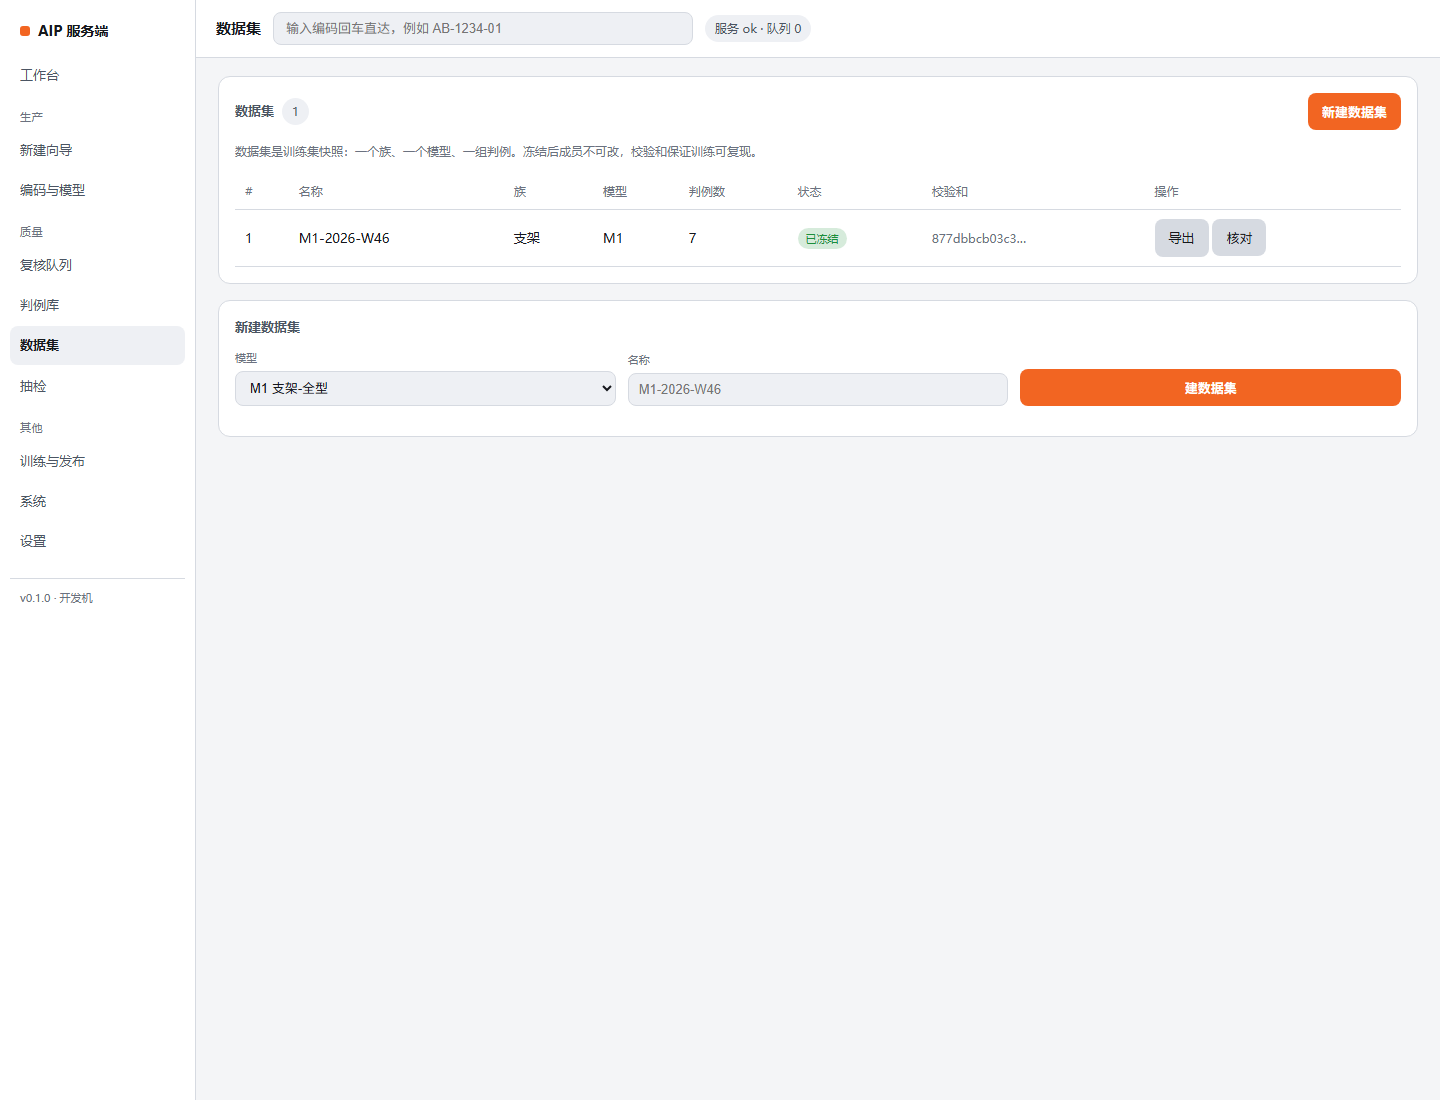
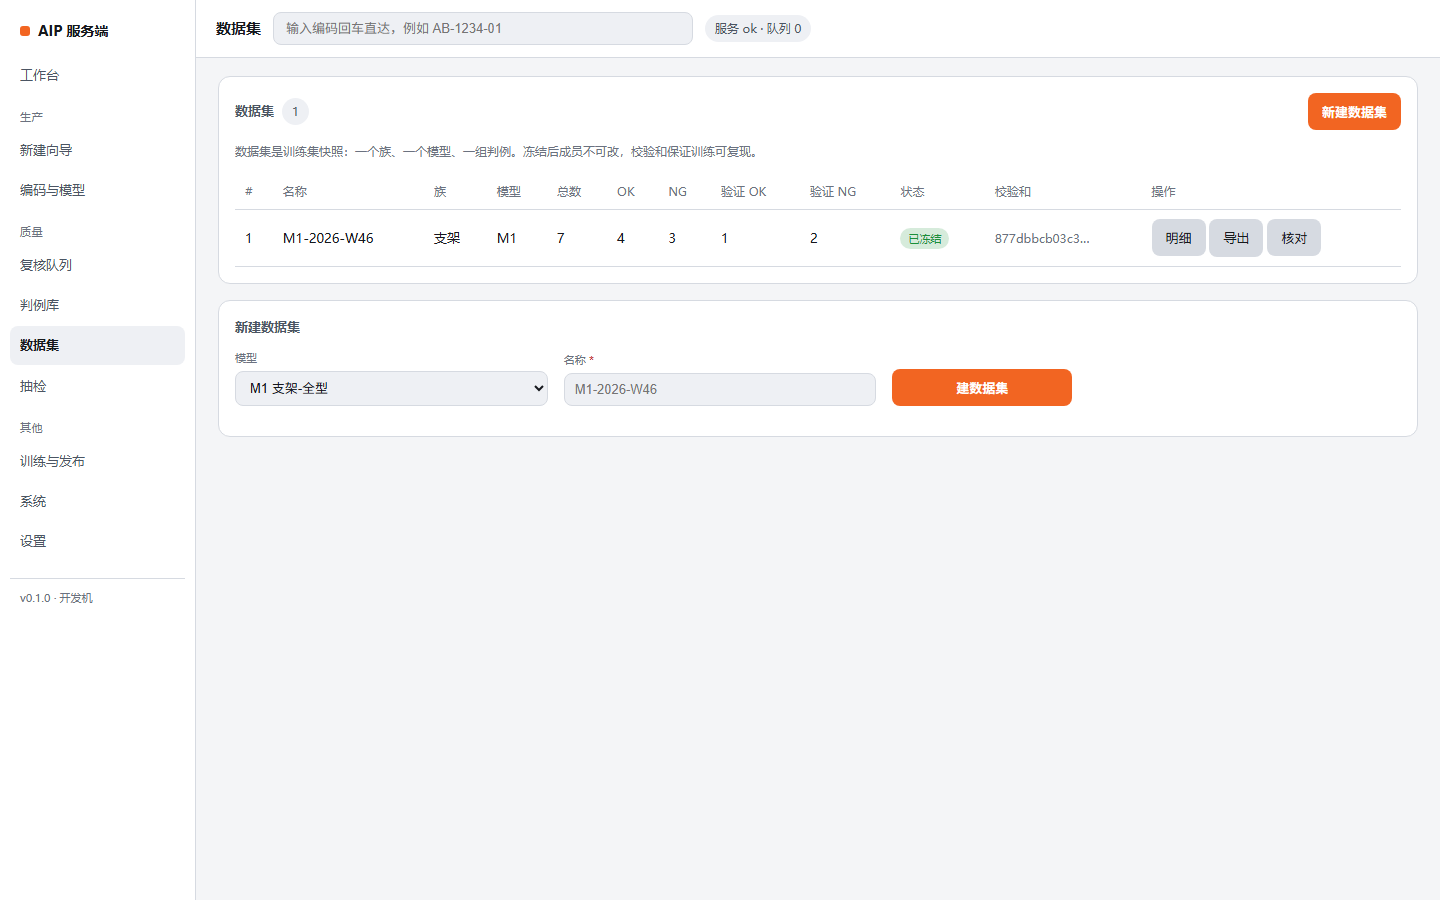
feat: 数据集分类统计（OK/NG）与冻结时训练/验证划分；明细弹窗

diff --git a/aip/web/admin.html b/aip/web/admin.html
@@ -198,6 +198,16 @@
 </div>
 <div id="toasts" aria-live="polite"></div>
 
+<dialog id="datasetDlg" style="width:min(860px,94vw)">
+  <h2 id="datasetTitle" style="margin-bottom:8px">数据集</h2>
+  <p id="datasetSummary" class="muted" style="margin:0 0 12px"></p>
+  <table><caption class="sr-only">数据集成员</caption>
+    <thead><tr><th scope="col">判例</th><th scope="col">编码</th><th scope="col">件号</th>
+      <th scope="col">结论</th><th scope="col">划分</th><th scope="col">理由</th></tr></thead>
+    <tbody id="datasetBody"></tbody></table>
+  <div class="row" style="margin-top:14px"><button class="ghost" onclick="this.closest('dialog').close()">关闭</button></div>
+</dialog>
+
 <dialog id="auditDlg">
   <h2 id="auditTitle" style="margin-bottom:12px">数据集核对</h2>
   <table><caption class="sr-only">成员变化</caption>
@@ -1472,13 +1482,20 @@ async function renderDatasets() {
       ${datasets.length === 0 ? `<div class="empty">还没有数据集。<b>怎么做</b>：在判例库勾选判例 → 加入数据集 → 冻结 → 训练时选择它。</div>` : `
       <table><caption class="sr-only">数据集列表</caption>
         <thead><tr><th scope="col">#</th><th scope="col">名称</th><th scope="col">族</th><th scope="col">模型</th>
-          <th scope="col">判例数</th><th scope="col">状态</th><th scope="col">校验和</th><th scope="col">操作</th></tr></thead>
+          <th scope="col">总数</th><th scope="col">OK</th><th scope="col">NG</th>
+          <th scope="col">验证 OK</th><th scope="col">验证 NG</th>
+          <th scope="col">状态</th><th scope="col">校验和</th><th scope="col">操作</th></tr></thead>
         <tbody>${datasets.map(d => `<tr>
           <td>${d.id}</td><td>${esc(d.name)}</td><td>${esc(d.family || "-")}</td><td>${esc(d.model_code)}</td>
           <td>${d.count}</td>
+          <td>${d.ok_count}</td>
+          <td>${d.ng_count}</td>
+          <td>${d.val_ok}</td>
+          <td>${d.val_ng}</td>
           <td>${d.status === "frozen" ? '<span class="tag ok">已冻结</span>' : '<span class="tag candidate">草稿</span>'}</td>
           <td class="muted">${d.checksum ? d.checksum.slice(0, 12) + "…" : "-"}</td>
           <td>
+            <button class="ghost" data-detail="${d.id}">明细</button>
             <a class="ghost" href="/api/datasets/${d.id}/export.csv">导出</a>
             ${d.status === "frozen" ? `<button class="ghost" data-audit="${d.id}">核对</button>` : ""}
             ${d.status === "draft" ? `<button class="ghost" data-freeze="${d.id}">冻结</button>` : ""}
@@ -1505,6 +1522,28 @@ async function renderDatasets() {
       renderDatasets();
     } catch (e) { toast(e.message, true); }
   };
+  document.querySelectorAll("[data-detail]").forEach(btn => {
+    btn.onclick = async () => {
+      try {
+        const d = await api(`/api/datasets/${btn.dataset.detail}`);
+        const s = d.summary || {};
+        $("datasetTitle").textContent = `数据集 #${d.id} ${d.name}`;
+        $("datasetSummary").textContent =
+          `共 ${s.total} 条 · OK ${s.ok} / NG ${s.ng} · 训练 OK ${s.train_ok} NG ${s.train_ng}` +
+          ` · 验证 OK ${s.val_ok} NG ${s.val_ng}（状态：${d.status === "frozen" ? "已冻结" : "草稿"}）`;
+        $("datasetBody").innerHTML = d.items.length
+          ? d.items.map(it => `<tr>
+              <td>${it.case_id}</td><td>${esc(it.code)}</td><td>${esc(it.part_no || "-")}</td>
+              <td>${tag(it.verdict)}</td>
+              <td>${it.split === "frozen_val" ? '<span class="tag candidate">验证</span>' : "训练"}</td>
+              <td>${esc(it.reason || "-")}</td>
+            </tr>`).join("")
+          : '<tr><td colspan="6" class="empty">数据集为空</td></tr>';
+        $("datasetDlg").showModal();
+      } catch (e) { toast(e.message, true); }
+    };
+  });
+
   document.querySelectorAll("[data-audit]").forEach(btn => {
     btn.onclick = async () => {
       try {

diff --git a/aip/src/aip/datasets.py b/aip/src/aip/datasets.py
@@ -106,6 +106,77 @@ def add_items(
     return {"added": added, "skipped": skipped}
 
 
+VAL_RATIO = {"ok": 0.2, "ng": 0.5}
+
+
+def _split_for(case_id: int, verdict: str) -> str:
+    """确定性划分：按 case_id 稳定散列，同一条判例永远落在同一侧。"""
+    ratio = VAL_RATIO.get(verdict, 0.2)
+    bucket = (case_id * 2654435761) % 100
+    return "frozen_val" if bucket < int(ratio * 100) else "train"
+
+
+def assign_splits(conn: sqlite3.Connection, dataset_id: int) -> dict:
+    """按类别比例划分 train / frozen_val；每类至少保留一条训练样本。"""
+    rows = conn.execute(
+        "SELECT i.case_id, i.verdict_at_freeze, c.verdict"
+        " FROM dataset_item i LEFT JOIN case_item c ON c.id = i.case_id"
+        " WHERE i.dataset_id = ? ORDER BY i.case_id",
+        (dataset_id,),
+    ).fetchall()
+
+    by_class: dict[str, list[int]] = {"ok": [], "ng": []}
+    for r in rows:
+        verdict = r["verdict_at_freeze"] or r["verdict"]
+        if verdict in by_class:
+            by_class[verdict].append(int(r["case_id"]))
+
+    split_of: dict[int, str] = {}
+    for verdict, ids in by_class.items():
+        ratio = VAL_RATIO[verdict]
+        n = len(ids)
+        val_n = 0 if n < 2 else max(1, round(n * ratio))
+        val_n = min(val_n, n - 1)  # 至少留一条训练
+        # 稳定排序：按散列值挑验证样本
+        ranked = sorted(ids, key=lambda cid: (cid * 2654435761) % 1000)
+        for cid in ranked[:val_n]:
+            split_of[cid] = "frozen_val"
+        for cid in ranked[val_n:]:
+            split_of[cid] = "train"
+
+    for cid, split in split_of.items():
+        conn.execute(
+            "UPDATE dataset_item SET split = ? WHERE dataset_id = ? AND case_id = ?",
+            (split, dataset_id, cid),
+        )
+    return {
+        "train": sum(1 for v in split_of.values() if v == "train"),
+        "val": sum(1 for v in split_of.values() if v == "frozen_val"),
+    }
+
+
+def _summary(conn: sqlite3.Connection, dataset_id: int) -> dict:
+    rows = conn.execute(
+        "SELECT c.verdict, i.split, count(*) n"
+        " FROM dataset_item i JOIN case_item c ON c.id = i.case_id"
+        " WHERE i.dataset_id = ? GROUP BY c.verdict, i.split",
+        (dataset_id,),
+    ).fetchall()
+    out = {"total": 0, "ok": 0, "ng": 0,
+           "train_ok": 0, "train_ng": 0, "val_ok": 0, "val_ng": 0}
+    for r in rows:
+        n = int(r["n"])
+        verdict = r["verdict"]
+        out["total"] += n
+        if verdict in ("ok", "ng"):
+            out[verdict] += n
+        if r["split"] == "frozen_val":
+            out["val_" + verdict] += n
+        else:
+            out["train_" + verdict] += n
+    return out
+
+
 def freeze(conn: sqlite3.Connection, dataset_id: int, *, actor: str = "web") -> str:
     ds = conn.execute("SELECT * FROM dataset WHERE id = ?", (dataset_id,)).fetchone()
     if ds is None:
@@ -134,6 +205,7 @@ def freeze(conn: sqlite3.Connection, dataset_id: int, *, actor: str = "web") -> 
         )
         from .dataset_audit import snapshot
 
+        assign_splits(conn, dataset_id)
         snapshot(conn, dataset_id)
         record(conn, actor=actor, action="dataset.freeze", entity="dataset",
                entity_id=dataset_id, payload={"checksum": checksum, "count": len(rows)})
@@ -160,6 +232,7 @@ def get_dataset(conn: sqlite3.Connection, dataset_id: int) -> dict:
     out = dict(ds)
     out["items"] = [dict(r) for r in items]
     out["count"] = len(items)
+    out["summary"] = _summary(conn, dataset_id)
     return out
 
 
@@ -167,7 +240,15 @@ def list_datasets(conn: sqlite3.Connection, limit: int = 100) -> list[dict]:
     rows = conn.execute(
         "SELECT d.id, d.name, d.status, d.checksum, d.frozen_at, d.created_at,"
         " f.name AS family, m.code AS model_code,"
-        " (SELECT count(*) FROM dataset_item i WHERE i.dataset_id = d.id) AS count"
+        " (SELECT count(*) FROM dataset_item i WHERE i.dataset_id = d.id) AS count,"
+        " (SELECT count(*) FROM dataset_item i JOIN case_item c ON c.id = i.case_id"
+        "   WHERE i.dataset_id = d.id AND c.verdict = 'ok') AS ok_count,"
+        " (SELECT count(*) FROM dataset_item i JOIN case_item c ON c.id = i.case_id"
+        "   WHERE i.dataset_id = d.id AND c.verdict = 'ng') AS ng_count,"
+        " (SELECT count(*) FROM dataset_item i JOIN case_item c ON c.id = i.case_id"
+        "   WHERE i.dataset_id = d.id AND i.split = 'frozen_val' AND c.verdict = 'ok') AS val_ok,"
+        " (SELECT count(*) FROM dataset_item i JOIN case_item c ON c.id = i.case_id"
+        "   WHERE i.dataset_id = d.id AND i.split = 'frozen_val' AND c.verdict = 'ng') AS val_ng"
         " FROM dataset d LEFT JOIN family f ON f.id = d.family_id"
         " JOIN model m ON m.id = d.model_id"
         " ORDER BY d.id DESC LIMIT ?",

diff --git a/tests/test_api_dataset_split.py b/tests/test_api_dataset_split.py
@@ -1,0 +1,81 @@
+"""数据集分类统计与训练/验证划分验收。"""
+
+from __future__ import annotations
+
+import pytest
+from fastapi.testclient import TestClient
+from PIL import Image
+
+from aip import store, whitelist
+from aip.api.app import create_app
+
+
+@pytest.fixture()
+def client(tmp_path, monkeypatch):
+    monkeypatch.setenv("AIP_WHITELIST", str(tmp_path / "none.yaml"))
+    whitelist.reset_cache()
+    db = tmp_path / "api.db"
+    conn = store.connect(db)
+    store.migrate(conn)
+    conn.close()
+    return TestClient(create_app(db))
+
+
+def _case(client, tmp_path, name: str, verdict: str, shade: int) -> int:
+    img = tmp_path / name
+    Image.new("RGB", (16, 16), (shade % 250 + 3, shade % 250 + 3, shade % 250 + 3)).save(img)
+    return client.post(
+        "/api/cases",
+        json={"code": "AB-1", "crop_path": str(img), "verdict": verdict,
+              "adjudicator": "z", "part_no": name},
+    ).json()["id"]
+
+
+def _dataset_with(client, tmp_path, ok: int, ng: int) -> tuple[int, int]:
+    client.post("/api/codes", json={"code": "AB-1", "family": "支架类"})
+    model = client.post("/api/models", json={"code": "M1"}).json()
+    client.post("/api/bindings", json={"code": "AB-1", "model_id": model["id"]})
+    ids = [_case(client, tmp_path, f"ok{i}.png", "ok", 10 + i * 7) for i in range(ok)]
+    ids += [_case(client, tmp_path, f"ng{i}.png", "ng", 60 + i * 7) for i in range(ng)]
+    ds = client.post("/api/datasets", json={"model_id": model["id"], "name": "D1"}).json()
+    client.post(f"/api/datasets/{ds['id']}/items", json={"case_ids": ids})
+    return model["id"], ds["id"]
+
+
+def test_summary_counts_ok_ng_and_val(client, tmp_path):
+    _, ds_id = _dataset_with(client, tmp_path, ok=10, ng=6)
+    client.post(f"/api/datasets/{ds_id}/freeze")
+
+    detail = client.get(f"/api/datasets/{ds_id}").json()
+    s = detail["summary"]
+    assert s["total"] == 16
+    assert s["ok"] == 10
+    assert s["ng"] == 6
+    assert s["train_ok"] + s["val_ok"] == 10
+    assert s["train_ng"] + s["val_ng"] == 6
+    # 比例：正常 20% 进验证，缺陷 50%
+    assert s["val_ok"] == 2
+    assert s["val_ng"] == 3
+    # 每类至少留一条训练
+    assert s["train_ok"] >= 1 and s["train_ng"] >= 1
+
+    # 明细里的 split 与统计一致
+    val = [i for i in detail["items"] if i["split"] == "frozen_val"]
+    assert len(val) == s["val_ok"] + s["val_ng"]
+
+
+def test_tiny_class_stays_in_train(client, tmp_path):
+    _, ds_id = _dataset_with(client, tmp_path, ok=1, ng=1)
+    client.post(f"/api/datasets/{ds_id}/freeze")
+    s = client.get(f"/api/datasets/{ds_id}").json()["summary"]
+    assert s["val_ok"] == 0 and s["val_ng"] == 0
+    assert s["train_ok"] == 1 and s["train_ng"] == 1
+
+
+def test_list_exposes_class_counts(client, tmp_path):
+    _, ds_id = _dataset_with(client, tmp_path, ok=5, ng=5)
+    client.post(f"/api/datasets/{ds_id}/freeze")
+    row = client.get("/api/datasets").json()[0]
+    assert row["ok_count"] == 5
+    assert row["ng_count"] == 5
+    assert row["val_ok"] + row["val_ng"] == 3  # 5*0.2=1, 5*0.5=3(round 2.5→2? 见下)

diff --git a/scripts/backfill_dataset_split.py b/scripts/backfill_dataset_split.py
@@ -1,0 +1,40 @@
+"""给已冻结但未划分 train/val 的数据集补划分。
+
+    python scripts/backfill_dataset_split.py            # 预览
+    python scripts/backfill_dataset_split.py --apply
+"""
+
+from __future__ import annotations
+
+import sys
+from pathlib import Path
+
+ROOT = Path(__file__).resolve().parents[1]
+sys.path.insert(0, str(ROOT / "aip" / "src"))
+
+from aip import datasets, store  # noqa: E402
+
+
+def main(apply: bool) -> int:
+    conn = store.connect(ROOT / "data" / "aip.db")
+    rows = conn.execute(
+        "SELECT d.id, d.name FROM dataset d WHERE d.status = 'frozen' AND NOT EXISTS ("
+        " SELECT 1 FROM dataset_item i WHERE i.dataset_id = d.id AND i.split = 'frozen_val')"
+    ).fetchall()
+    print(f"待补划分的数据集：{len(rows)}")
+    for r in rows:
+        print(f"  #{r['id']} {r['name']}")
+    if apply:
+        with conn:
+            for r in rows:
+                out = datasets.assign_splits(conn, r["id"])
+                print(f"  #{r['id']} → train {out['train']} / val {out['val']}")
+        print("已补划分")
+    else:
+        print("预览。确认后加 --apply")
+    conn.close()
+    return 0
+
+
+if __name__ == "__main__":
+    raise SystemExit(main("--apply" in sys.argv))
